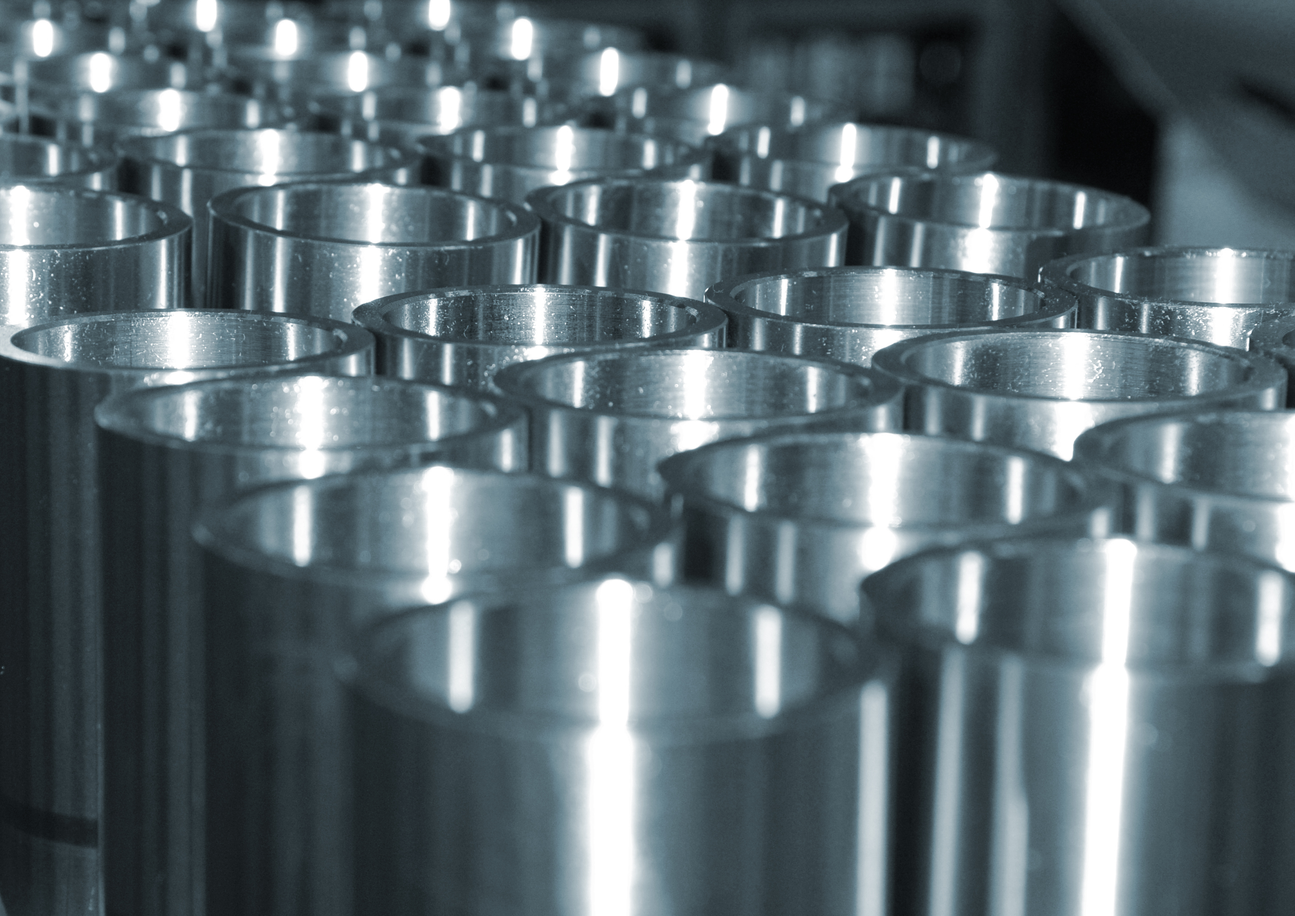
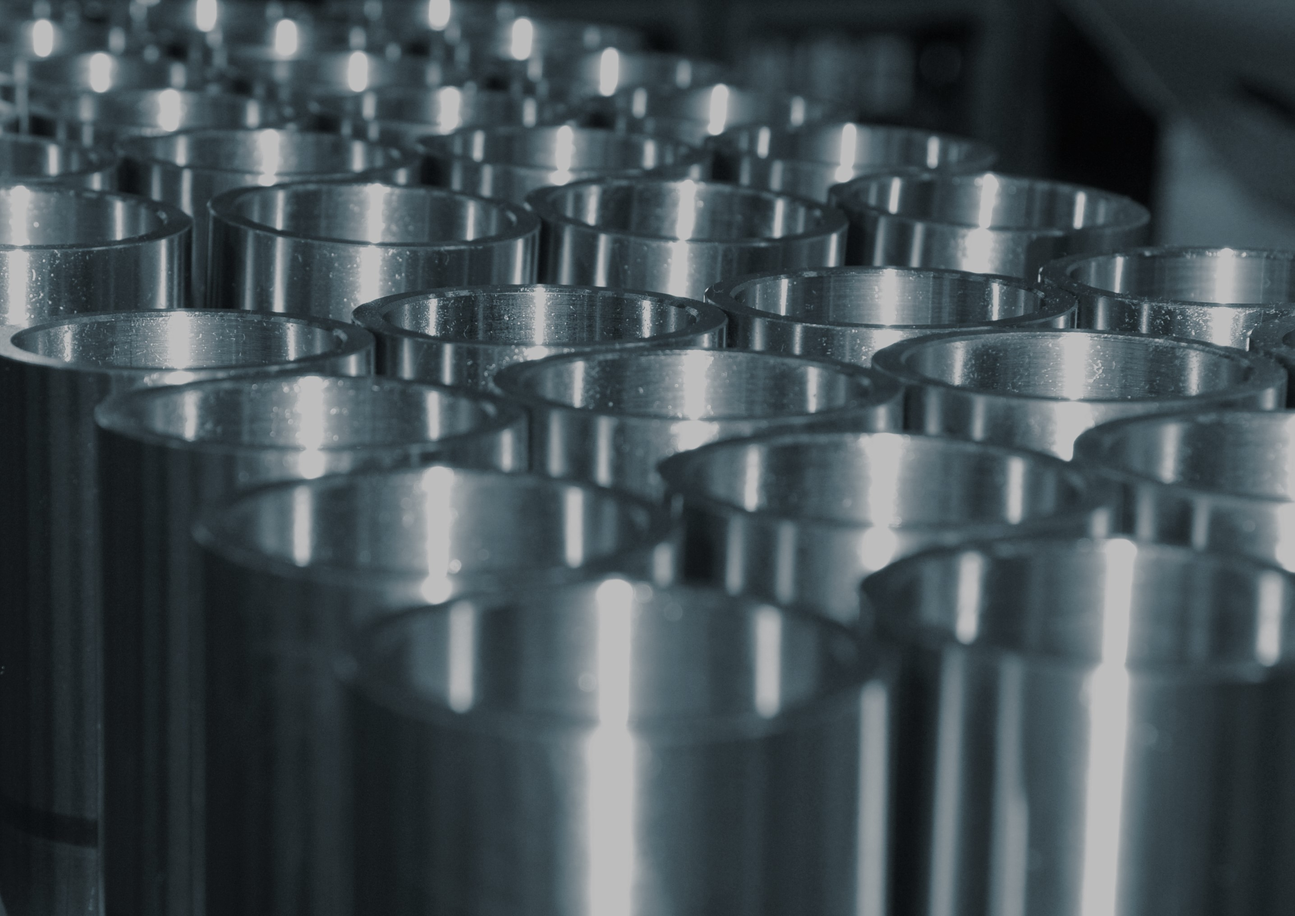
página de serviços

diff --git a/src/app/pages/servicos/servicos.component.html b/src/app/pages/servicos/servicos.component.html
@@ -1,1 +1,150 @@
-<p>servicos works!</p>
+<div id="services-page">
+  <div id="impact-title">
+    <div id="title">
+      <span>Serviços</span>
+    </div>
+  </div>
+  <div id="body">
+    <p>
+      Na Anhanguera Corte Laser, oferecemos serviços que unem tecnologia,
+      durabilidade e personalização, entregando resultados que atendem às mais
+      altas exigências de diferentes setores.
+    </p>
+    <div class="row justify-content-center gap-3" id="cards">
+      <div class="col-2" id="card">
+        <img src="assets/imagens/image 6.png" />
+        <div id="card-title"><span>Corte a Laser</span></div>
+        <div id="card-body">
+          <span
+            >Precisão milimétrica e eficiência para projetos industriais e
+            criativos.
+          </span>
+        </div>
+      </div>
+      <div class="col-2" id="card">
+        <img src="assets/imagens/image-1.png" />
+        <div id="card-title"><span>Pintura Eletrostática</span></div>
+        <div id="card-body">
+          <span
+            >A pintura eletrostática é um processo de revestimento que usa carga
+            elétrica para aderir tinta em superfícies metálicas, garantindo
+            acabamento uniforme e durável.
+          </span>
+        </div>
+      </div>
+      <div class="col-2" id="card">
+        <img src="assets/imagens/image-2.png" />
+        <div id="card-title"><span>Calandra</span></div>
+        <div id="card-body">
+          <span
+            >Curvatura perfeita para aplicações industriais e decorativas.
+          </span>
+        </div>
+      </div>
+      <div class="col-2" id="card">
+        <img src="assets/imagens/image-3.png" />
+        <div id="card-title"><span>Dobras CNC</span></div>
+        <div id="card-body">
+          <span
+            >Modelagem versátil para criar peças robustas e personalizadas.
+          </span>
+        </div>
+      </div>
+      <div class="col-2" id="card">
+        <img src="assets/imagens/image.png" />
+        <div id="card-title"><span>Solda</span></div>
+        <div id="card-body">
+          <span
+            >A soldagem é um processo de fusão que une materiais metálicos,
+            garantindo uma conexão forte e contínua.
+          </span>
+        </div>
+      </div>
+    </div>
+
+    <div id="setores-atendidos" class="mt-5">
+      <span id="title">Setores Atendidos</span>
+    </div>
+    <div class="row justify-content-center gap-3" id="cards">
+      <div class="col-2" id="card">
+        <img src="assets/imagens/carro.png" />
+        <div
+          id="card-title"
+          style="
+            height: 60px;
+            display: flex;
+            align-items: center;
+            justify-content: center;
+          "
+        >
+          <span>Automobilístico e Ferroviário</span>
+        </div>
+        <div id="card-body">
+          <span
+            >Peças metálicas de alta precisão para veículos e infraestrutura.
+          </span>
+        </div>
+      </div>
+      <div class="col-2" id="card">
+        <img src="assets/imagens/engenharia.png" />
+        <div
+          id="card-title"
+          style="
+            height: 60px;
+            display: flex;
+            align-items: center;
+            justify-content: center;
+          "
+        >
+          <span>Construção Civil</span>
+        </div>
+        <div id="card-body">
+          <span
+            >Estruturas robustas e acabamentos que garantem durabilidade.
+          </span>
+        </div>
+      </div>
+      <div class="col-2" id="card">
+        <img src="assets/imagens/farmacia.png" />
+        <div
+          id="card-title"
+          style="
+            height: 60px;
+            display: flex;
+            align-items: center;
+            justify-content: center;
+          "
+        >
+          <span>Indústria Médica e Farmacêutica</span>
+        </div>
+        <div id="card-body">
+          <span
+            >Componentes delicados e resistentes que atendem às mais altas
+            exigências técnicas.
+          </span>
+        </div>
+      </div>
+      <div class="col-2" id="card">
+        <img src="assets/imagens/arquitetura.png" />
+        <div
+          id="card-title"
+          style="
+            height: 60px;
+            display: flex;
+            align-items: center;
+            justify-content: center;
+          "
+        >
+          <span>Arquitetura e Design de Interiores</span>
+        </div>
+        <div id="card-body">
+          <span
+            >Criamos soluções personalizadas, desde peças decorativas até
+            estruturas metálicas sob medida, transformando ambientes com
+            projetos únicos.
+          </span>
+        </div>
+      </div>
+    </div>
+  </div>
+</div>

diff --git a/src/app/pages/servicos/servicos.component.scss b/src/app/pages/servicos/servicos.component.scss
@@ -1,0 +1,74 @@
+#impact-title{
+    background-image: url('../../../assets/steel-pipes-put-together.jpg');
+    background-repeat: no-repeat;
+    background-size: cover;
+    height: 280px;
+    color: #FFFFFF;
+    padding: 20px;
+    display: flex;
+    justify-content: center;
+    flex-direction: column;
+
+    & #title{
+        width: 10%;
+        font-size: 30px;
+        border-bottom: 1px solid #009F7F;
+    }
+}
+
+#body{
+    padding: 10px;
+
+    & p{
+        color: #264E34;
+    }
+}
+
+#card{
+    background-color: #FFF;
+    padding: 0;
+    text-align: center;
+    border-radius: 10px;
+    
+    & #card-title{
+        padding: 5px;
+        color: white;
+        font-size: 20px;
+        font-weight: bold;
+        background-color: #009F7F;
+    }
+
+    & img{
+        width: 100%;
+        border-radius: 10px 10px 0px 0px;
+
+    }
+
+    & #card-body{
+        padding: 10px;
+    }
+}
+
+#card:hover{
+    & #card-title{
+        color: white;
+        font-size: 20px;
+        font-weight: bold;
+        background-color: #264E34;
+        transition: all 0.3s ease-in-out;
+    }
+}
+
+#cards{
+    width: 100%;
+}
+
+#setores-atendidos{
+    padding: 20px;
+
+    & #title{
+        font-size: 25px;
+        color: #264E34;
+        border-bottom: 1px solid #009F7F;
+    }
+}

diff --git a/src/app/pages/contato/contato.component.ts b/src/app/pages/contato/contato.component.ts
@@ -8,15 +8,15 @@ import { GoogleMap, MapMarker } from '@angular/google-maps';
   styleUrl: './contato.component.scss',
 })
 export class ContatoComponent {
-  center = { lat: -22.878952795786375, lng: -47.11978834110448 }; // Localização inicial (São Paulo)
+  center = { lat: -22.878952795786375, lng: -47.11978834110448 };
   zoom = 19;
 
-  markerPosition = { lat: -22.878952795786375, lng: -47.11978834110448 }; // Posição do marcador
+  markerPosition = { lat: -22.878952795786375, lng: -47.11978834110448 };
   markerOptions = {
     animation: google.maps.Animation.DROP,
     icon: {
-      url: 'https://maps.google.com/mapfiles/ms/icons/red-dot.png', // Ícone azul
-      scaledSize: new google.maps.Size(40, 40), // Ajustar o tamanho
+      url: 'https://maps.google.com/mapfiles/ms/icons/red-dot.png',
+      scaledSize: new google.maps.Size(40, 40),
     },
   };
 }

diff --git a/src/index.html b/src/index.html
@@ -2,7 +2,7 @@
 <html lang="en">
   <head>
     <meta charset="utf-8" />
-    <title>Anhangueracortelaser</title>
+    <title>Anhanguera Corte Laser</title>
     <base href="/" />
     <meta name="viewport" content="width=device-width, initial-scale=1" />
     <link rel="icon" type="image/x-icon" href="assets/favicon.png" />
